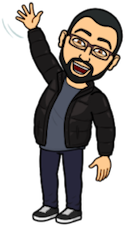
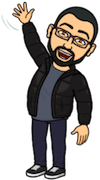
everything was wayyy to zoomed in

diff --git a/src/projects.html b/src/projects.html
@@ -33,7 +33,8 @@
   <div class="col">
     <p>ClearlyDefined is an incubator project from the Open Source Initiative, that is on a mission to help all open
       source projects thrive in today's software development ecosystem. We believe lack of clarity around licenses and
-      security vulnerabilities reduces engagement, which leads to fewer users, fewer contributors, and in turn, a smaller
+      security vulnerabilities reduces engagement, which leads to fewer users, fewer contributors, and in turn, a
+      smaller
       community.
     </p>
     <p>As a core contributor on the project I get to work with node.js workers and services running in Docker containers
@@ -52,7 +53,8 @@
 <div class="row mt-5 text-left">
   <div class="col">
     <p>As a core developer from 2013 to 2018 I got to take part in the explosive growth happening at that time. Helping
-      Azure grow from 4 services to the 100+ we have now, we also grew our scrappy 4 person team to an organization of more than
+      Azure grow from 4 services to the 100+ we have now, we also grew our scrappy 4 person team to an organization of
+      more than
       50 members.
     </p>
     <p>Top 5 reasons this project rocked every day:</p>

diff --git a/src/css/site.less b/src/css/site.less
@@ -1,6 +1,6 @@
 h1 {
   font-family: 'Oswald', cursive;
-  font-size: 4rem;
+  font-size: 3.5rem;
 }
 
 h2,
@@ -12,20 +12,20 @@ ol {
 }
 
 h2 {
-  font-size: 1.9rem;
+  font-size: 1.5rem;
 }
 
 h3 {
-  font-size: 1.6rem;
+  font-size: 1.2rem;
 }
 
 p,
 ol {
-  font-size: 1.5rem;
+  font-size: 1rem;
 }
 
 small {
-  font-size: 1.2rem;
+  font-size: 0.9rem;
 }
 
 img {
@@ -51,17 +51,17 @@ a {
 
 .container {
   padding-top: 50px;
-  max-width: 700px;
+  max-width: 500px;
 }
 
 p + p {
-  margin-top: 60px;
+  margin-top: 30px;
 }
 
 .page-title {
   font-weight: bold;
-  font-size: 2rem;
-  margin-bottom: 50px;
+  font-size: 1.5rem;
+  margin-bottom: 20px;
 }
 
 h2 a {

diff --git a/src/about.html b/src/about.html
@@ -3,7 +3,7 @@
     <h3 class="page-title">About me</h3>
   </div>
 </div>
-<div class="row text-left mt-5">
+<div class="row text-left mt-3">
   <div class="col">
     <p>My current day job is working for Microsoft in the Open Source Programs Office (OSPO) where I have really been
       getting into the depths of the open source world in ways I never knew were possible. I've always been fascinated

diff --git a/src/index.html b/src/index.html
@@ -3,7 +3,7 @@
     <h3 class="page-title">Welcome! I’m so glad you're here!</h3>
   </div>
 </div>
-<div class="row justify-content-center text-left mt-5">
+<div class="row justify-content-center text-left mt-3">
   <div class="col">
     <p>This is my little corner of the web. Have a look around and please feel free to reach out if you want to chat.
     </p>

diff --git a/src/contact.html b/src/contact.html
@@ -3,7 +3,7 @@
     <h3 class="page-title">You know where to find me</h3>
   </div>
 </div>
-<div class="row mt-5">
+<div class="row mt-3">
   <div class="col">
     <p>
       <a target="_blank" href="https://github.com/dabutvin">
